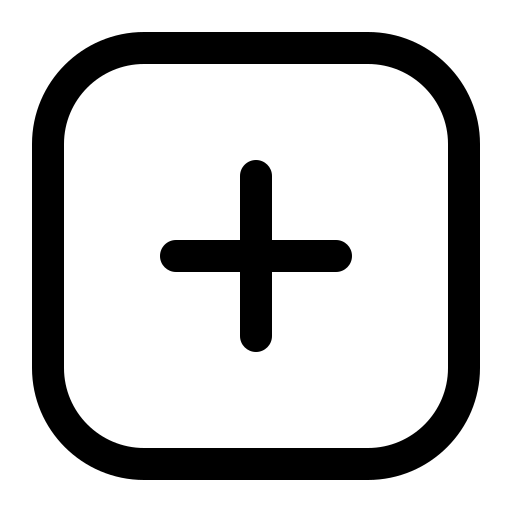
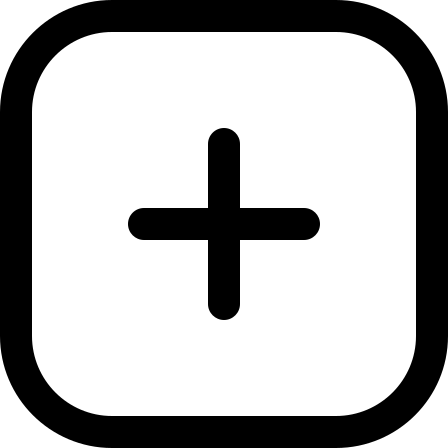
Styling Feed and UserPage

diff --git a/frontend/src/components/Feed_children/FeedControls.jsx b/frontend/src/components/Feed_children/FeedControls.jsx
@@ -28,7 +28,13 @@ export default function FeedControls({
 
       {currentUser && !isViewing && (
         // Only show this button when not vewing another user's profile
-        <Button name="Create New Post" onClick={onNewPost} />
+        // <Button name="Create New Post" onClick={onNewPost} />
+        <img
+          src="/add.png"
+          alt="Create New Post"
+          className="add-button"
+          onClick={onNewPost}
+        />
       )}
     </div>
   );

diff --git a/frontend/src/components/Button.jsx b/frontend/src/components/Button.jsx
@@ -12,6 +12,7 @@ import { NavLink } from "react-router-dom";
 
 export default function Button({
   name,
+  children,
   onClick,
   to,
   type = "button",
@@ -19,7 +20,7 @@ export default function Button({
 }) {
   const ButtonElement = () => (
     <button onClick={onClick} type={type} {...props}>
-      {name}
+      {name || children}
     </button>
   );
 

diff --git a/frontend/src/styles/userpage.css b/frontend/src/styles/userpage.css
@@ -12,3 +12,14 @@
 .profile-username h1 {
   margin: 0;
 }
+
+.add-button {
+  background-color: transparent;
+  height: 2.5rem;
+  cursor: pointer;
+  border-radius: 10px;
+}
+
+.add-button:hover {
+  background-color: lightgrey;
+}

diff --git a/frontend/src/styles/feed.css b/frontend/src/styles/feed.css
@@ -25,3 +25,10 @@
 .feed-user {
   margin-top: 1rem;
 }
+
+.feed-controls {
+  display: flex;
+  justify-content: space-evenly;
+  align-items: center;
+  gap: 1rem;
+}

diff --git a/frontend/src/styles/index.css b/frontend/src/styles/index.css
@@ -35,6 +35,7 @@ ul {
 
 button {
   padding-inline: 0.25rem;
+  cursor: pointer;
 }
 
 input,
